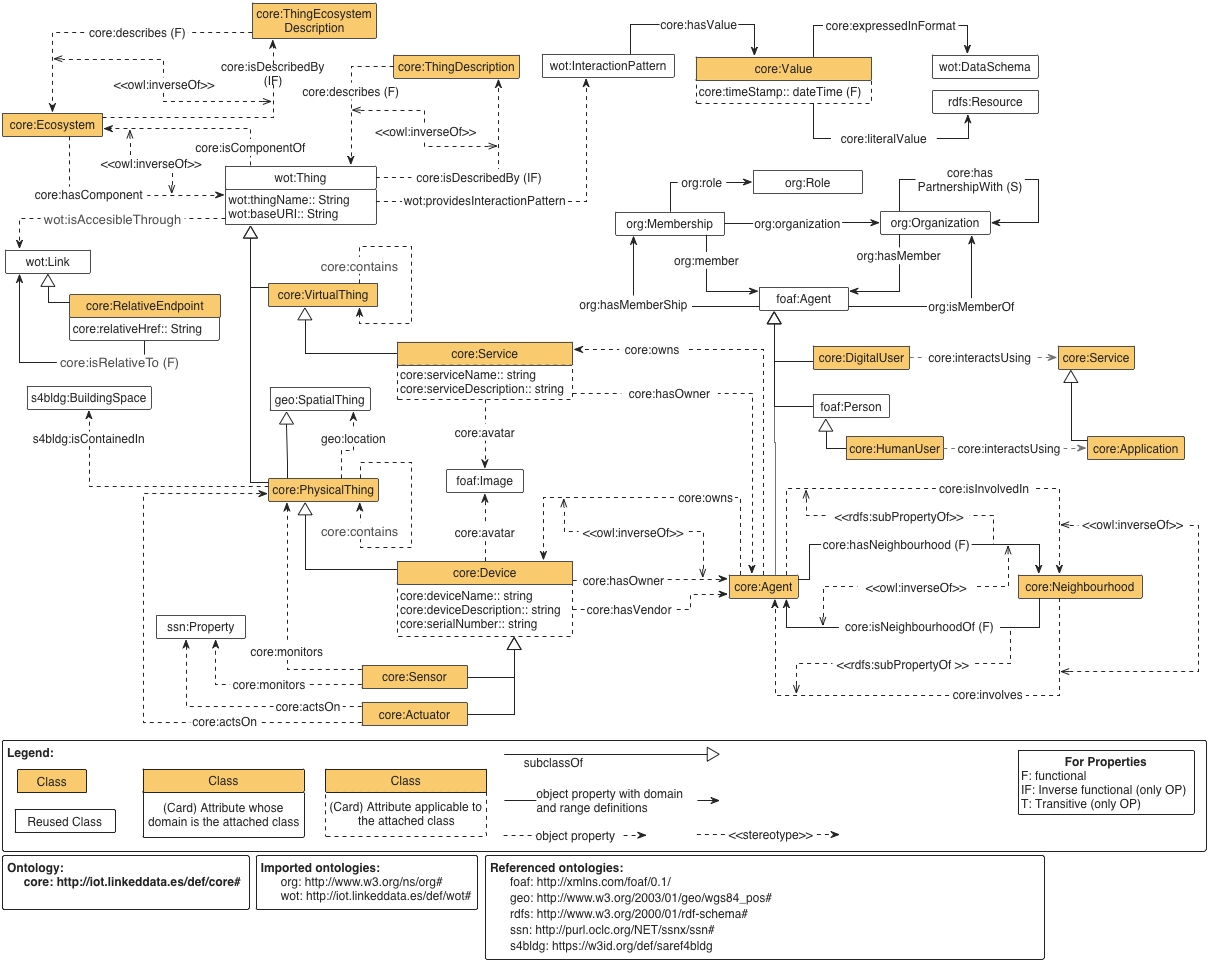
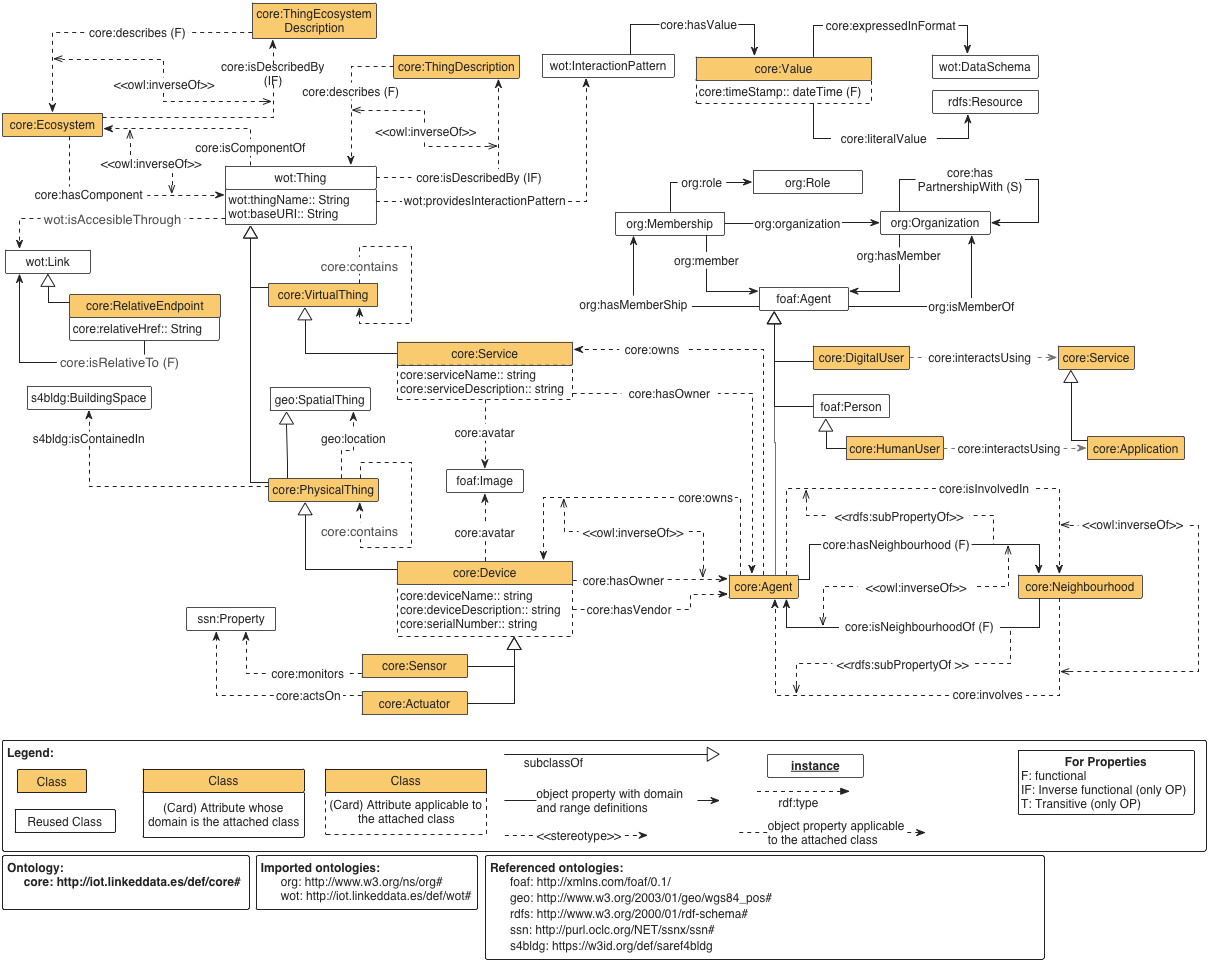
updated diagrams

diff --git a/OnToology/ontology/core.ttl/documentation/sections/description-en.html b/OnToology/ontology/core.ttl/documentation/sections/description-en.html
@@ -7,3 +7,8 @@
 
 <p>Figure 2 depicts the hierarchy of devices included so far in the VICINITY model. </p>
 <center><img src="resources/images/deviceHierarchy.png" alt="Hierarchy of devices used in VICINITY.">   <figcaption>Figure 2. - Hierarchy of devices.</figcaption></center>
+
+
+
+<p>Figure 3 depicts the hierarchy of properties and their instances included so far in the VICINITY model. </p>
+<center><img src="resources/images/properties.png" alt="Hierarchy of properties and instances used in VICINITY.">   <figcaption>Figure 3. - Hierarchy of properties and exemplary instances.</figcaption></center>
